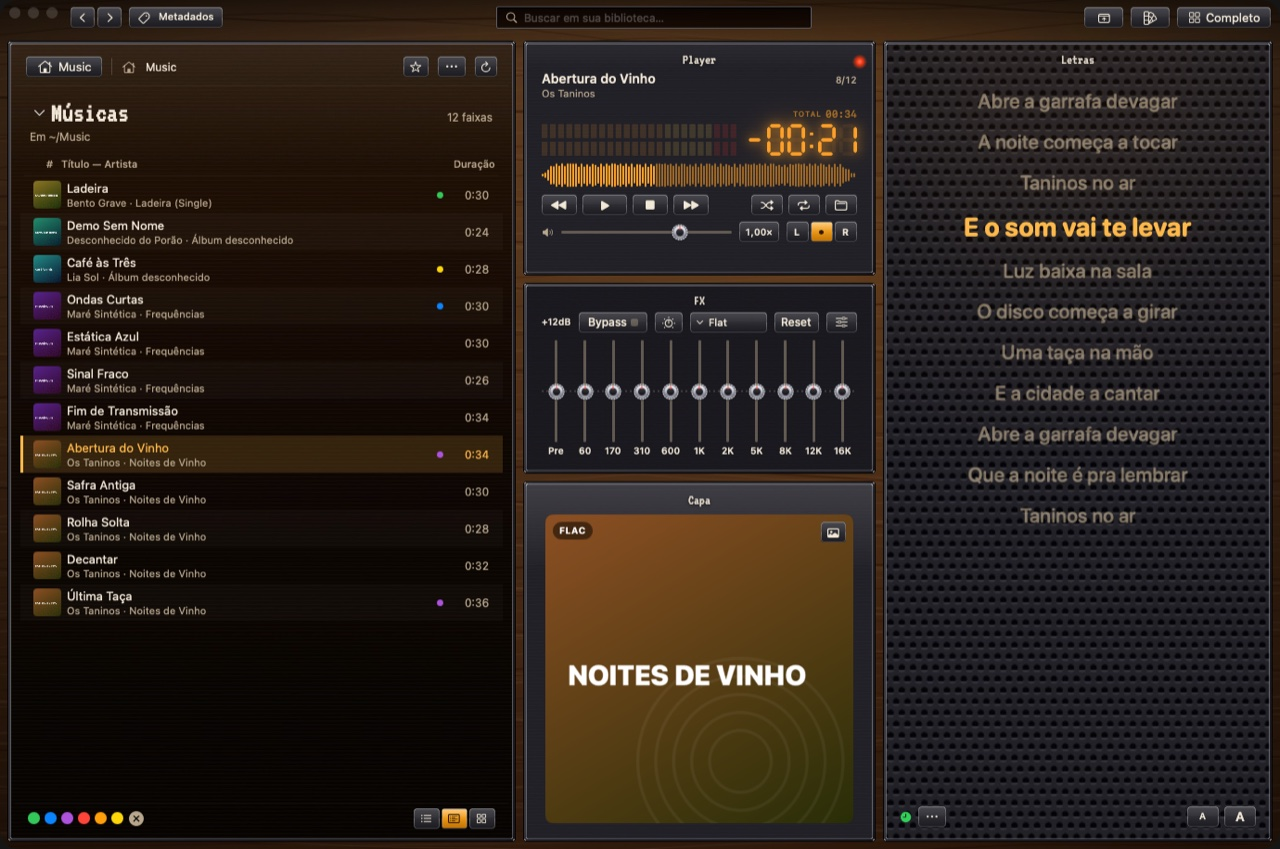
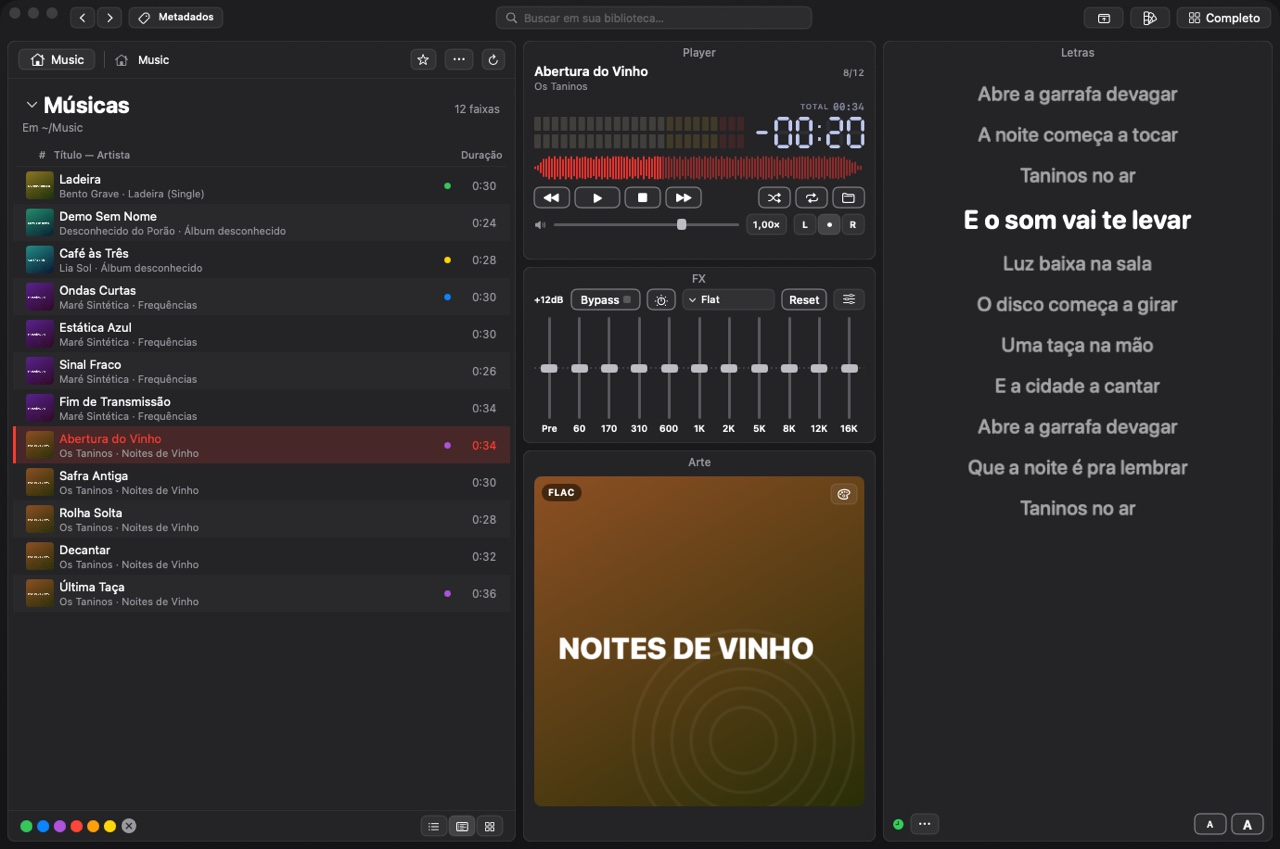
feat: BetterCraft 0.6.2 and new Wineup screenshots (no skin, compact with Retro)

diff --git a/i18n-strings.js b/i18n-strings.js
@@ -478,8 +478,8 @@ window.WITCH_STRINGS = Object.freeze({
   'Sua biblioteca, seu jeito': ['Your library, your way', 'Tu biblioteca, a tu manera'],
   'Pastas, álbuns, artistas, estilos, playlists, tags de cor e 17 idiomas.': ['Folders, albums, artists, genres, playlists, color tags and 17 languages.', 'Carpetas, álbumes, artistas, géneros, playlists, etiquetas de color y 17 idiomas.'],
   'Baixar Wineup': ['Download Wineup', 'Descargar Wineup'],
-  'Wineup Player na versão completa com a skin Musical: lista, player com visor, equalizador, capa e letra sincronizada': ['Wineup Player in the full version with the Musical skin: list, player with display, equalizer, cover and synced lyrics', 'Wineup Player en la versión completa con la skin Musical: lista, reproductor con pantalla, ecualizador, portada y letra sincronizada'],
-  'Wineup Player na versão compacta com a skin Neon Gótico: player, equalizador e lista numa coluna': ['Wineup Player in the compact version with the Neon Gothic skin: player, equalizer and list in one column', 'Wineup Player en la versión compacta con la skin Neón Gótico: reproductor, ecualizador y lista en una columna'],
+  'Wineup Player na versão completa, sem skin: lista, player com visor, equalizador, capa e letra sincronizada': ['Wineup Player in the full version, no skin: list, player with display, equalizer, cover and synced lyrics', 'Wineup Player en la versión completa, sin skin: lista, reproductor con pantalla, ecualizador, portada y letra sincronizada'],
+  'Wineup Player na versão compacta com a skin Retro: player, equalizador e lista numa coluna': ['Wineup Player in the compact version with the Retro skin: player, equalizer and list in one column', 'Wineup Player en la versión compacta con la skin Retro: reproductor, ecualizador y lista en una columna'],
   'Escolha o app': ['Choose the app', 'Elige la app'],
   'Copiado!': ['Copied!', '¡Copiado!'],
   'O comando só tira daquele app a marca de "baixado da internet". Não pede senha e não muda nada no resto do Mac.': [

diff --git a/index.html b/index.html
@@ -458,8 +458,8 @@
         </div>
       </div>
       <div class="shots">
-        <button class="shot shot-main" type="button"><img src="assets/shots/wineup-main.jpg?v=202610250900" alt="Wineup Player na versão completa com a skin Musical: lista, player com visor, equalizador, capa e letra sincronizada" loading="lazy" width="1280" height="849"></button>
-        <button class="shot shot-sub narrow-shot" type="button"><img src="assets/shots/wineup-compact.jpg?v=202610250900" alt="Wineup Player na versão compacta com a skin Neon Gótico: player, equalizador e lista numa coluna" loading="lazy" width="470" height="980"></button>
+        <button class="shot shot-main" type="button"><img src="assets/shots/wineup-main.jpg?v=202610251400" alt="Wineup Player na versão completa, sem skin: lista, player com visor, equalizador, capa e letra sincronizada" loading="lazy" width="1280" height="849"></button>
+        <button class="shot shot-sub narrow-shot" type="button"><img src="assets/shots/wineup-compact.jpg?v=202610251400" alt="Wineup Player na versão compacta com a skin Retro: player, equalizador e lista numa coluna" loading="lazy" width="470" height="980"></button>
       </div>
     </article>
 
@@ -728,10 +728,10 @@
   </div>
 </footer>
 
-<script src="apps.js?v=202610251200"></script>
+<script src="apps.js?v=202610251400"></script>
 <script src="install-command.js?v=202610250800"></script>
 <script src="script.js?v=202610201330"></script>
-<script src="i18n-strings.js?v=202610250900"></script>
+<script src="i18n-strings.js?v=202610251400"></script>
 <script src="i18n.js?v=202610242100"></script>
 <script src="effects.js?v=202610201330"></script>
 <script src="gatekeeper.js?v=202610242200"></script>

diff --git a/apps.js b/apps.js
@@ -10,7 +10,7 @@ window.WITCH_APPS = Object.freeze({
   rubbishnotes: Object.freeze({ repo: 'rubbish-notes', tag: 'v1.1.0',        file: 'RubbishNotes-1.1.0.dmg', published: true, app: 'Rubbish Notes.app' }),
   bunnygrid:    Object.freeze({ repo: 'BunnyGrid',     tag: 'v0.2.0',        file: 'BunnyGrid-0.2.0.dmg',    published: true, app: 'BunnyGrid.app' }),
   wormlink:     Object.freeze({ repo: 'Wormlink',      tag: 'v0.2.0',        file: 'Wormlink-0.2.0.dmg',     published: true, app: 'Wormlink.app' }),
-  bettercraft:  Object.freeze({ repo: 'bettercraft-launcher', tag: 'v0.6.1', file: 'BetterCraftLauncher-0.6.1.dmg', published: true, app: 'BetterCraft Launcher.app' }),
+  bettercraft:  Object.freeze({ repo: 'bettercraft-launcher', tag: 'v0.6.2', file: 'BetterCraftLauncher-0.6.2.dmg', published: true, app: 'BetterCraft Launcher.app' }),
   santovideoplayer: Object.freeze({ repo: 'santo-video-player', tag: 'v2.0.0', file: 'SantoVideoPlayer-2.0.0.dmg', published: true, app: 'Santo Video Player.app' }),
   viewtube:     Object.freeze({ repo: 'viewtube-mac',  tag: 'v1.0.3',        file: 'ViewTube-1.0.3.dmg',     published: true, app: 'ViewTube.app' }),
   hypervideo:   Object.freeze({ repo: 'hypervideo-converter', tag: 'v1.0.0', file: 'HyperVideo-1.0.0.dmg', published: true, app: 'HyperVideo Converter.app' }),

diff --git a/viewtube/index.html b/viewtube/index.html
@@ -193,10 +193,10 @@
   </div>
 </footer>
 
-<script src="../apps.js?v=202610251200"></script>
+<script src="../apps.js?v=202610251400"></script>
 <script src="../install-command.js?v=202610250700"></script>
 <script src="../script.js?v=202610250700"></script>
-<script src="../i18n-strings.js?v=202610250700"></script>
+<script src="../i18n-strings.js?v=202610251400"></script>
 <script src="strings.js?v=202610250700"></script>
 <script src="../i18n.js?v=202610242100"></script>
 <script src="../effects.js?v=202610201330"></script>
